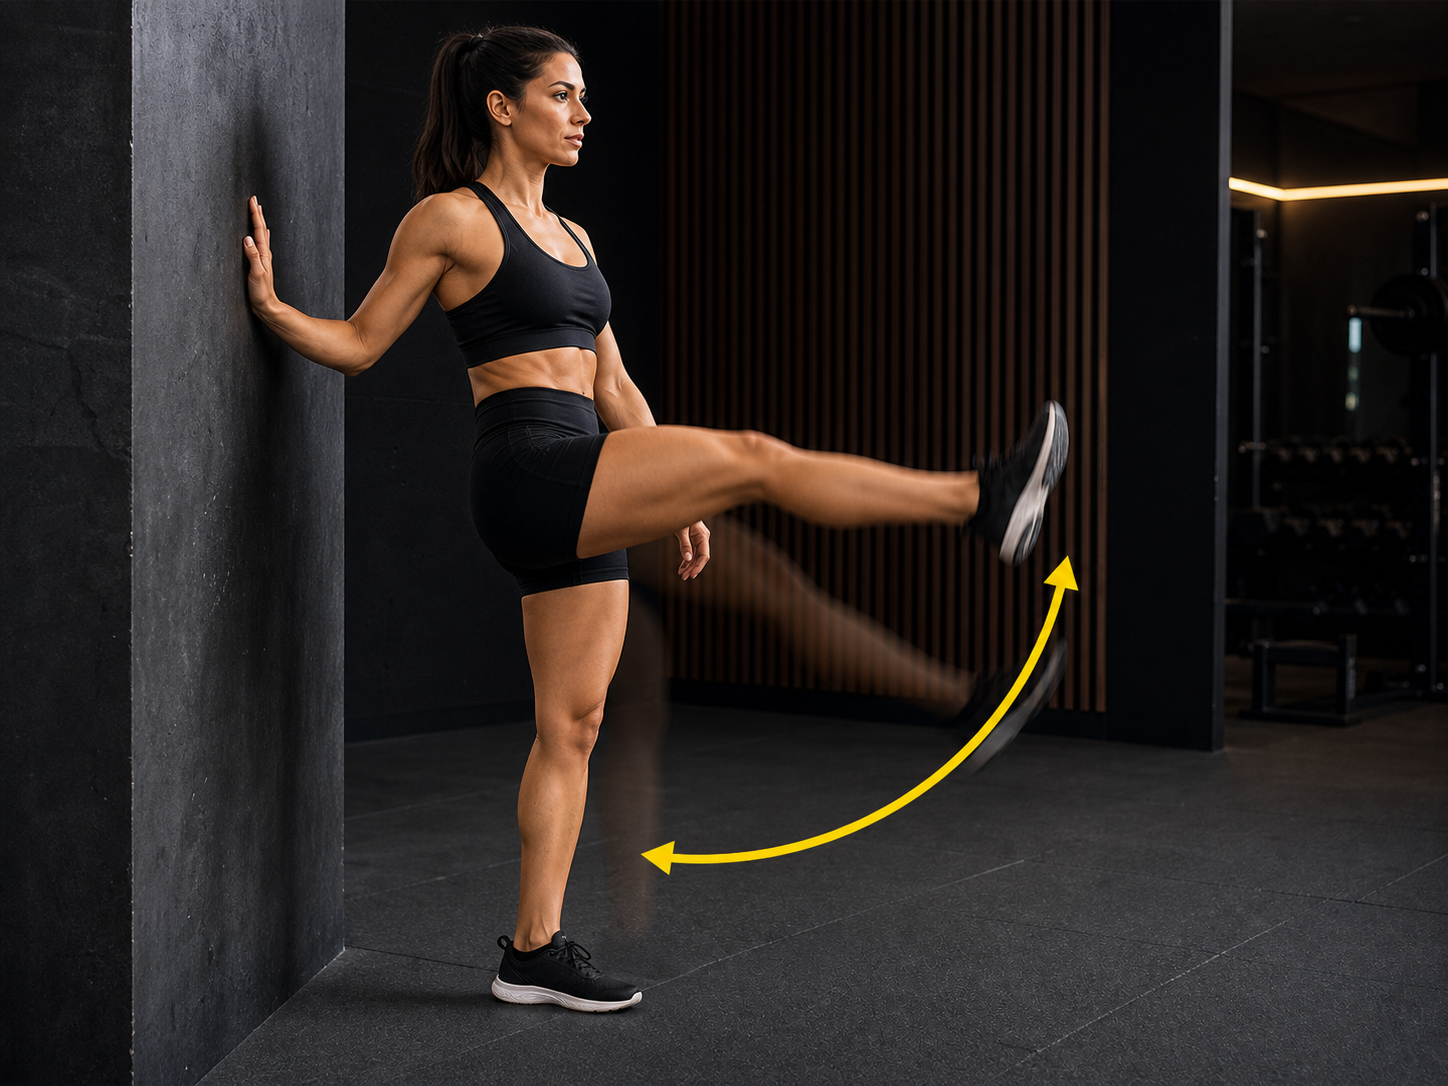
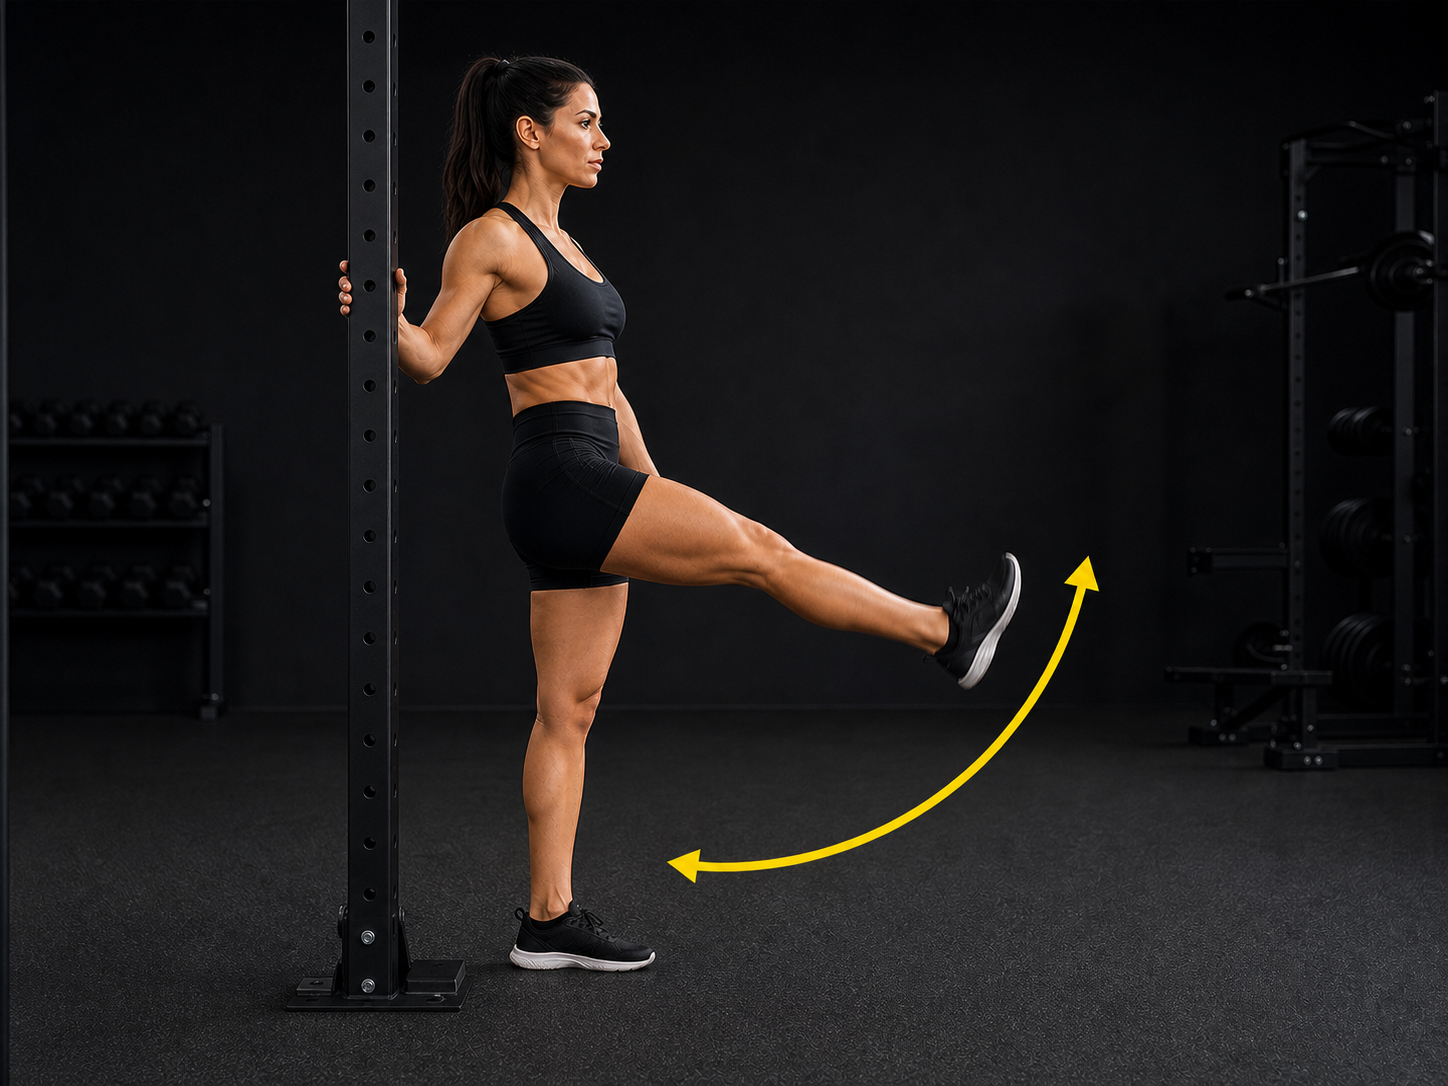
fix(forged-hybrid): repair plan day and rest flow

diff --git a/frontend/src/components/InsightsSheet.jsx b/frontend/src/components/InsightsSheet.jsx
@@ -120,6 +120,7 @@ export function ReadinessGauge({ score, onClick }) {
 
 export function DailyCoachFlow({ checkedInToday, readiness, recommendation, todayWatchWorkout, onCheckIn, onStartWorkout, onReflect, onDetails }) {
   const { t } = useTranslation()
+  const isRestDay = recommendation?.recommendationType === 'rest' || recommendation?.type === 'rest'
   const recommendationLabel = recommendation
     ? getRecommendationLabel(recommendation)
     : "today's plan"
@@ -130,6 +131,9 @@ export function DailyCoachFlow({ checkedInToday, readiness, recommendation, toda
   const coachWhy = interferenceReason || (typeof recommendation?.brief?.why === 'string' ? recommendation.brief.why.trim() : '')
   const buildTodaySubtitle = () => {
     if (!recommendation) return "Check in to unlock today's plan."
+    if (isRestDay) {
+      return `${readiness !== null ? `Readiness ${readiness}. ` : ''}Rest and recovery are scheduled today.`
+    }
 
     const parts = [recommendationLabel ? recommendationLabel.charAt(0).toUpperCase() + recommendationLabel.slice(1) : '']
     const distance = Number(recommendation.suggestedDistance || 0)
@@ -155,7 +159,7 @@ export function DailyCoachFlow({ checkedInToday, readiness, recommendation, toda
   }
   const steps = [
     { key: 'checkin', label: 'Check in', done: checkedInToday, action: onCheckIn },
-    { key: 'train', label: recommendation ? recommendationLabel : 'Train', done: false, action: onStartWorkout },
+    { key: 'train', label: isRestDay ? 'Rest day' : (recommendation ? recommendationLabel : 'Train'), done: isRestDay, action: onStartWorkout },
     { key: 'reflect', label: 'Reflect', done: false, action: onReflect },
   ]
 
@@ -165,7 +169,9 @@ export function DailyCoachFlow({ checkedInToday, readiness, recommendation, toda
         <div>
           <p className="t-micro" style={{ color: 'var(--accent)' }}>Today</p>
           <h2 className="t-title mt-1" style={{ color: 'var(--text-primary)' }}>
-            {checkedInToday ? 'Train from the plan' : 'Start with readiness'}
+            {checkedInToday
+              ? (isRestDay ? 'Recovery is the plan today' : 'Train from the plan')
+              : 'Check in before today\'s plan'}
           </h2>
           <p className="mt-1 text-sm" style={{ color: 'var(--text-muted)' }}>
             {buildTodaySubtitle()}
@@ -185,7 +191,7 @@ export function DailyCoachFlow({ checkedInToday, readiness, recommendation, toda
             className="pressable rounded-xl px-3 py-2 text-xs font-black"
             style={{ background: 'var(--accent)', color: 'var(--on-accent)', border: 'none' }}
           >
-            {checkedInToday ? 'Start' : 'Check in'}
+            {checkedInToday ? (isRestDay ? 'View week' : 'Start') : 'Check in'}
           </button>
           <button
             onClick={onDetails}
@@ -343,6 +349,7 @@ export function TodayDetailSheet({
 }) {
   const { t } = useTranslation()
   if (!open) return null
+  const isRestDay = recommendation?.recommendationType === 'rest' || recommendation?.type === 'rest'
   const recommendationLabel = recommendation ? getRecommendationLabel(recommendation) : null
   const topFactors = (readinessBreakdown || []).filter((item) => item.label !== 'Base score').slice(0, 2)
   const interferenceReason = recommendation?.interference?.adjusted && typeof recommendation?.interference?.reason === 'string'
@@ -379,7 +386,9 @@ export function TodayDetailSheet({
           <div>
             <p className="text-xs font-bold uppercase" style={{ color: 'var(--accent)', letterSpacing: 0.8 }}>Today</p>
             <h2 className="mt-1 text-2xl font-black" style={{ color: 'var(--text-primary)' }}>
-              {checkedInToday ? 'Plan locked for today' : 'Check in before training'}
+              {checkedInToday
+                ? (isRestDay ? 'Recovery is the plan today' : 'Plan locked for today')
+                : 'Check in before training'}
             </h2>
           </div>
           <button onClick={onClose} className="rounded-lg px-3 py-2 text-xs" style={{ background: 'var(--bg-input)', color: 'var(--text-muted)' }}>
@@ -467,7 +476,7 @@ export function TodayDetailSheet({
               {checkedInToday ? 'Edit check-in' : 'Check in'}
             </button>
             <button onClick={onStartWorkout} className="rounded-xl px-3 py-3 text-sm font-bold" style={{ background: 'var(--accent)', color: 'var(--on-accent)' }}>
-              Start/log
+              {isRestDay ? 'View calendar' : 'Start/log'}
             </button>
             <button onClick={onWarmup} className="rounded-xl px-3 py-3 text-sm font-bold" style={{ background: 'var(--bg-input)', color: 'var(--text-primary)', border: '1px solid var(--border-subtle)' }}>
               Warm-up

diff --git a/frontend/src/components/MovementDemo.jsx b/frontend/src/components/MovementDemo.jsx
@@ -247,9 +247,8 @@ const PHOTO_DEMOS = [
   },
   {
     match: (lower) => lower.includes('trunk rotation'),
-    src: '/stretches/trunk-rotation.webp',
-    cropToSex: true,
-    maleSide: 'right',
+    male: '/stretches/trunk-rotation-male.png',
+    female: '/stretches/trunk-rotation-female.png',
   },
   {
     match: (lower) => lower.includes('cat-cow') || lower.includes('cat cow'),
@@ -698,11 +697,14 @@ export default function MovementDemo({ name, label, compact = false, sex = 'male
     ? 'female'
     : (providedImage.includes('-male') ? 'male' : '')
   const providedImageMatchesProfile = !providedImageSex || providedImageSex === normalizedSex
-  const photoConfig = providedImage && providedImageMatchesProfile
-    ? (providedImageNeedsCrop && !normalizedSex
-        ? { src: '', cropToSex: false, maleSide: photoDemo?.maleSide || 'right' }
-        : { src: providedImage, cropToSex: providedImageNeedsCrop, maleSide: photoDemo?.maleSide || 'right' })
-    : getPhotoConfig(photoDemo, sex)
+  const hasProfilePair = Boolean(photoDemo?.male || photoDemo?.female)
+  const photoConfig = hasProfilePair
+    ? getPhotoConfig(photoDemo, sex)
+    : (providedImage && providedImageMatchesProfile
+        ? (providedImageNeedsCrop && !normalizedSex
+            ? { src: '', cropToSex: false, maleSide: photoDemo?.maleSide || 'right' }
+            : { src: providedImage, cropToSex: providedImageNeedsCrop, maleSide: photoDemo?.maleSide || 'right' })
+        : getPhotoConfig(photoDemo, sex))
   const photoSrc = photoConfig.src
   const shouldCropToSex = Boolean(photoConfig.cropToSex)
   const cropSide = normalizedSex === 'male'

diff --git a/frontend/src/pages/Plan.jsx b/frontend/src/pages/Plan.jsx
@@ -239,6 +239,9 @@ export default function Plan() {
 
   const course = model?.goal?.course || myPlan?.plan_data?.goal?.course || null
   const planInputs = myPlan?.plan_data?.inputSummary || null
+  const trainingEvidence = Array.isArray(myPlan?.plan_data?.trainingEvidence)
+    ? myPlan.plan_data.trainingEvidence
+    : []
   const courseProvenance = String(course?.provenance || '').toLowerCase()
   const courseState = course?.state || (
     ['official', 'licensed'].includes(courseProvenance)
